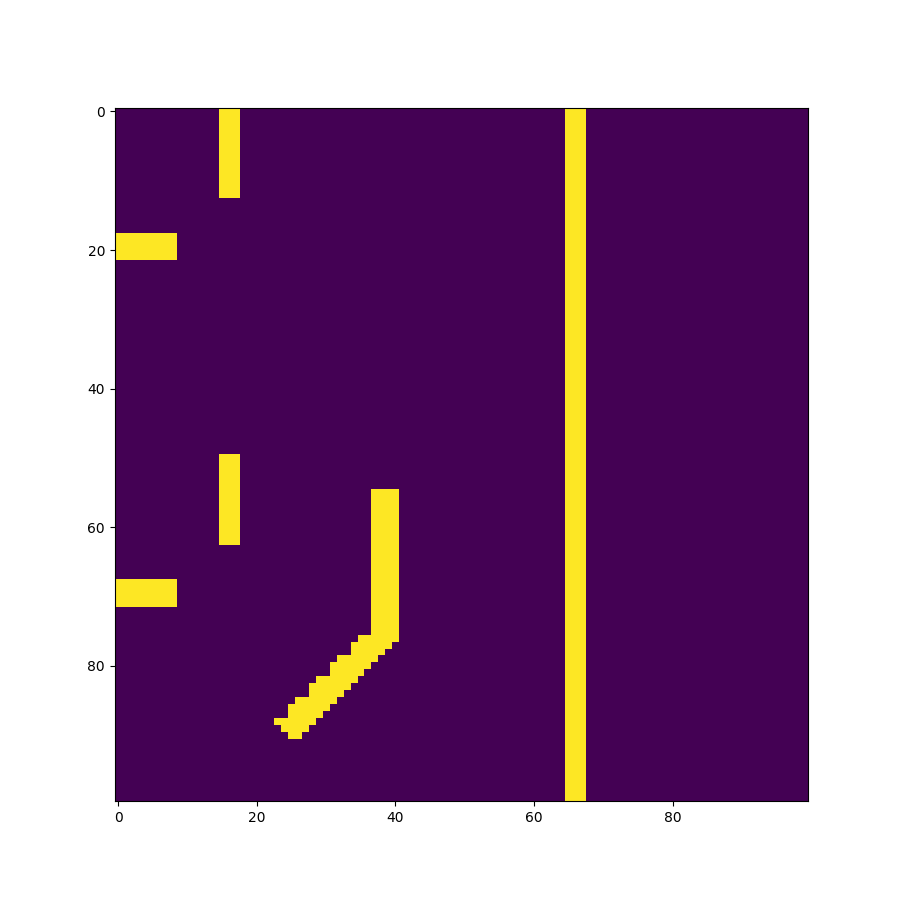
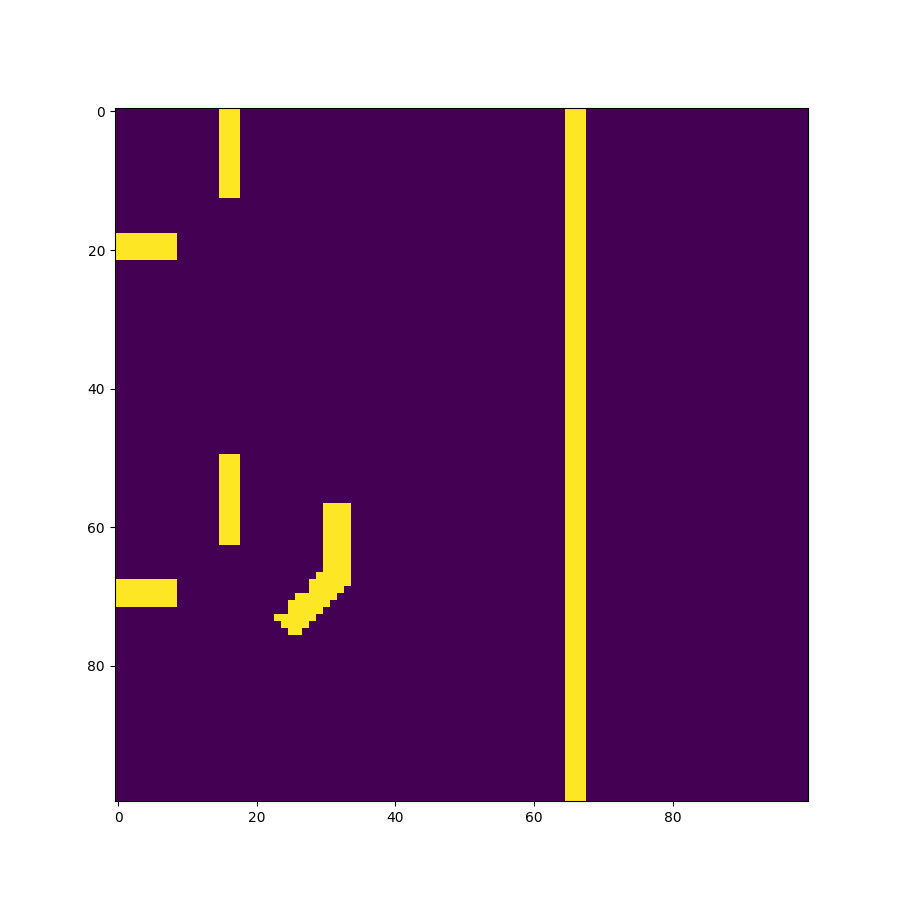
collision checker c++

Changed region(s): [[0.3111, 0.5289, 0.4667, 0.84]]

diff --git a/src/collision_check.hpp b/src/collision_check.hpp
@@ -1,103 +1,107 @@
 #include <iostream>
-#define TRACTOR_WIDTH (0.0)
+#define TRACTOR_WIDTH (0.5)
 #define L1 (1.0)
 #define L2 (1.0)
-#define BODY (0.0)
-#define DIAMETER (0.0)
-// #define map_width (100.0)
-// #define map_height (100.0)
-#define MAP_RESOLUTION (0.1)
-#define RECT_RESOLUTION (0.1)
+#define BODY (0.5)
+#define DIAMETER (0.5)
+#define map_width (20)
+#define map_height (20)
+#define MAP_RESOLUTION (0.2)
+#define RECT_RESOLUTION (0.05)
 #include <eigen3/Eigen/Dense>
 
 class CollisionCheck {
 
     private: 
-        double l_tractor = BODY + L1 + DIAMETER/2;
-        double l_trailer = L2 + DIAMETER/2;
+        // double l_tractor = BODY + L1 + DIAMETER/2;
+        // double l_trailer = L2 + DIAMETER/2;
+        double l_tractor = 2.0;
+        double l_trailer = 2.0;
         Eigen::Matrix3d tractor_transform;
         Eigen::Matrix3d trailer_transform;
-        Eigen::Matrix3d tractor_coords;
-        Eigen::Matrix3d trailer_coords;
+        int steps_w= (int) (TRACTOR_WIDTH/RECT_RESOLUTION)+2;
+        int steps_l_tractor= (int) (l_tractor/RECT_RESOLUTION)+2;
+        int steps_l_trailer= (int) (l_trailer/RECT_RESOLUTION)+2;
+        Eigen::MatrixXd tractor_coords = Eigen::MatrixXd::Zero(3, steps_w*steps_l_tractor);
+        Eigen::MatrixXd trailer_coords = Eigen::MatrixXd::Zero(3, steps_w*steps_l_trailer);
 
         inline void computeTransformMatrices (double theta, double beta, int x, int y) {
             
-            trailer_transform << cos(theta), -sin(theta), x + L2/2*cos(theta),
-            sin(theta), cos(theta), y + L2/2*sin(theta),
+            trailer_transform << cos(theta), -sin(theta), x + l_trailer/2*cos(theta),
+            sin(theta), cos(theta), y + l_trailer/2*sin(theta),
             0, 0, 1;
-            tractor_transform << cos(theta+beta), -sin(theta+beta), x + L2*cos(theta) + l_tractor/2*cos(theta+beta),
-            sin(theta+beta), cos(theta+beta), y + L2*sin(theta) + l_tractor/2*sin(theta+beta),
+            tractor_transform << cos(theta+beta), -sin(theta+beta), x + l_trailer*cos(theta) + l_tractor/2*cos(theta+beta),
+            sin(theta+beta), cos(theta+beta), y + l_trailer*sin(theta) + l_tractor/2*sin(theta+beta),
             0, 0, 1;
         }
 
         inline void computeCoords() {
 
-            int steps_w= (int) (TRACTOR_WIDTH/RECT_RESOLUTION)+1;
-            int steps_l= (int) (l_tractor/RECT_RESOLUTION)+1;
 
-            //define an eigen matrix to store the coordinates of the tractor_rect
-            Eigen::Matrix3Xd tractor_rect_coords(3,(steps_w+1)*(steps_l+1));
-            for (int i = 0; i <= steps_l; i++) {
-                for (int j = 0; j < steps_w; j++) {
-                    tractor_rect_coords(0,i*(steps_w+1)+j) = -TRACTOR_WIDTH/2 + j*float(TRACTOR_WIDTH/steps_w);
-                    tractor_rect_coords(1,i*(steps_w+1)+j) = -l_tractor/2 + i*float(l_tractor/steps_l);
-                    tractor_rect_coords(2,i*(steps_w+1)+j) = 1;
+            Eigen::Matrix3Xd tractor_rect_coords(3,(steps_w)*(steps_l_tractor));
+            for (int i = 0; i < steps_w; i++) {
+                for (int j = 0; j < steps_l_tractor; j++) {
+                    tractor_rect_coords(0,i*(steps_l_tractor)+j) = -l_tractor/2 + j*float(RECT_RESOLUTION);
+                    tractor_rect_coords(1,i*(steps_l_tractor)+j) = -TRACTOR_WIDTH/2 + i*float(RECT_RESOLUTION);
+                    tractor_rect_coords(2,i*(steps_l_tractor)+j) = 1;
                 }
             }
 
-            steps_w= (int) (TRACTOR_WIDTH/RECT_RESOLUTION)+1;
-            steps_l= (int) (l_trailer/RECT_RESOLUTION)+1;
 
-            Eigen::Matrix3Xd trailer_rect_coords(3,(steps_w+1)*(steps_l+1));
-
-            for (int i = 0; i <= steps_l; i++) {
-                for (int j = 0; j < steps_w; j++) {
-                    trailer_rect_coords(0,i*(steps_w+1)+j) = -TRACTOR_WIDTH/2 + j*float(TRACTOR_WIDTH/steps_w);
-                    trailer_rect_coords(1,i*(steps_w+1)+j) = -l_trailer/2 + i*float(l_trailer/steps_l);
-                    trailer_rect_coords(2,i*(steps_w+1)+j) = 1;
+            Eigen::Matrix3Xd trailer_rect_coords(3,(steps_w)*(steps_l_trailer));
+            for (int i = 0; i < steps_w; i++) {
+                for (int j = 0; j < steps_l_trailer; j++) {
+                    trailer_rect_coords(0,i*(steps_l_trailer)+j) = -l_trailer/2 + j*float(RECT_RESOLUTION);
+                    trailer_rect_coords(1,i*(steps_l_trailer)+j) = -TRACTOR_WIDTH/2 + i*float(RECT_RESOLUTION);
+                    trailer_rect_coords(2,i*(steps_l_trailer)+j) = 1;
                 }
             }
 
-            tractor_coords = tractor_transform*tractor_coords;
-            trailer_coords = trailer_transform*trailer_coords;
+            std::cout<<"Tractor rect coords: "<<tractor_rect_coords.rows()<<"x"<<tractor_rect_coords.cols()<<std::endl;
+            std::cout<<"Trailer rect coords: "<<trailer_rect_coords.rows()<<"x"<<trailer_rect_coords.cols()<<std::endl;
+    
+            tractor_coords = tractor_transform*tractor_rect_coords;
+            trailer_coords = trailer_transform*trailer_rect_coords;
+
+            // print dimensions of tractor_coords and trailer_coors
+            std::cout<<"Tractor coords: "<<tractor_coords.rows()<<"x"<<tractor_coords.cols()<<std::endl;
+            std::cout<<"Trailer coords: "<<trailer_coords.rows()<<"x"<<trailer_coords.cols()<<std::endl;
         }
        
         void converWorldXYtoGridXY(float x, float y, int &grid_x, int &grid_y) {
-            // CONVERT world coordinates to grid coordinates 
-            //map resolution is 0.1m
-            //if x= 0.51m, grid_x = 6
-
+            // printf("x: %f, y: %f)", x, y);
             grid_x = (int) x/MAP_RESOLUTION;
             grid_y = (int) y/MAP_RESOLUTION;
 
         }
     public:
-        int collision_check(int x, int y, double beta, double theta, double* world_map, int map_height, int map_width) {
+        int collision_check(float x, float y, float theta, float beta, double* world_map, int x_size, int y_size) {
+            // print  and y_size
+            std::cout<<"x_size: "<<x_size<<" y_size: "<<y_size<<std::endl;
+            std::cout<< "map_width: "<<map_width<<" map_height: "<<map_height<<std::endl;
             
+            assert(x_size == map_width/MAP_RESOLUTION && y_size == map_height/MAP_RESOLUTION);
+
             bool collided = false;
             computeTransformMatrices(theta, beta, x, y);
             computeCoords();
-            // std::cout<<"Tractor coords: "<<tractor_coords<<"\n";
-            // std::cout<<"Trailer coords: "<<trailer_coords<<"\n";
 
-            //first go over all coordinates of the tractor and check if they are in the obstacle space
             int grid_x, grid_y;
             for (int i = 0; i < tractor_coords.cols(); i++) {
+                std::cout<<"Tractor coords: "<<tractor_coords(0,i)<<" "<<tractor_coords(1,i)<<std::endl;
                 converWorldXYtoGridXY(tractor_coords(0,i), tractor_coords(1,i), grid_x, grid_y);
-                //check if the grid_x and grid_y are within the map bounds and if the point is in the obstacle space
-                if (grid_x < 0 || grid_x >= (int)(map_width/MAP_RESOLUTION) || grid_y < 0 || grid_y >= (int)(map_height/MAP_RESOLUTION) || world_map[grid_x + grid_y*(int)(map_width/MAP_RESOLUTION)] > 0) {
+                if (grid_x < 0 || grid_x >= x_size || grid_y < 0 || grid_y >= y_size || world_map[y_size-grid_y-1+grid_x*y_size] > 0) {
                     collided = true;
                     std::cout<<"Collision detected at tractor point "<<tractor_coords(0,i)<<", "<<tractor_coords(1,i)<<"\n";
                     break;
                 }
             }
 
-            //now go over all coordinates of the trailer and check if they are in the obstacle space
             for (int i = 0; i < trailer_coords.cols(); i++) {
                 converWorldXYtoGridXY(trailer_coords(0,i), trailer_coords(1,i), grid_x, grid_y);
-                if (grid_x < 0 || grid_x >= (int)(map_width/MAP_RESOLUTION) || grid_y < 0 || grid_y >= (int)(map_height/MAP_RESOLUTION) || world_map[grid_x + grid_y*(int)(map_width/MAP_RESOLUTION)] >0) {
+                if (grid_x < 0 || grid_x >= x_size || grid_y < 0 || grid_y >= y_size || world_map[y_size-grid_y-1+grid_x*y_size] >0) {
                     collided = true;
-                    std::cout<<"Collision detected at tractor point "<<tractor_coords(0,i)<<", "<<tractor_coords(1,i)<<"\n";
+                    std::cout<<"Collision detected at trailer point "<<trailer_coords(0,i)<<", "<<trailer_coords(1,i)<<"\n";
                     break;
                 }
             }

diff --git a/src/collision_check.py b/src/collision_check.py
@@ -13,8 +13,8 @@ class collision_check():
         self.BODY= 0.5
         # self.l_tractor = self.BODY + self.L1 + self.DIAMETER/2
         # self.l_trailer = self.L2 + self.DIAMETER/2
-        self.l_tractor = 4
-        self.l_trailer = 4
+        self.l_tractor = 2
+        self.l_trailer = 2
         self.TRACTOR_WIDTH = 0.5
         self.RECT_RESOLUTION = 0.05
         self.MAP_RESOLUTION = 0.2
@@ -31,8 +31,8 @@ class collision_check():
         self.trailer_rect_coords = np.zeros((3, 1))
 
     def computeTransformMatrices(self, theta, beta, x, y):
-        theta = theta*math.pi/180
-        beta = beta*math.pi/180
+        # theta = theta*math.pi/180
+        # beta = beta*math.pi/180
 
         self.trailer_transform = np.array([[math.cos(theta), -math.sin(theta), x + self.l_trailer/2*math.cos(theta)],
                                            [math.sin(theta), math.cos(theta), y + self.l_trailer/2*math.sin(theta)],
@@ -44,6 +44,10 @@ class collision_check():
     def computeCoords(self):
         steps_w = int(self.TRACTOR_WIDTH/self.RECT_RESOLUTION) + 2
         steps_l = int(self.l_tractor/self.RECT_RESOLUTION) + 2
+
+        ic(self.l_tractor)
+        ic(steps_w)
+        ic(steps_l)
         tractor_rect_coords = np.zeros((3, (steps_w)*(steps_l)))
         for i in range(steps_w):
             for j in range(steps_l):
@@ -54,7 +58,9 @@ class collision_check():
         steps_w = int(self.TRACTOR_WIDTH/self.RECT_RESOLUTION) + 2
         steps_l = int(self.l_trailer/self.RECT_RESOLUTION) + 2
         trailer_rect_coords = np.zeros((3, (steps_w)*(steps_l)))
-
+        ic(self.l_trailer)
+        ic(steps_w)
+        ic(steps_l)
         for i in range(steps_w):
             for j in range(steps_l):
                 
@@ -62,7 +68,9 @@ class collision_check():
                 trailer_rect_coords[1, i*(steps_l)+j] = -self.TRACTOR_WIDTH/2 + i*self.RECT_RESOLUTION
                 trailer_rect_coords[2, i*(steps_l)+j] = 1
                
-        
+        ic(self.tractor_transform)
+        ic(self.trailer_transform)
+
         self.tractor_coords = np.matmul(self.tractor_transform, tractor_rect_coords)
         self.trailer_coords = np.matmul(self.trailer_transform, trailer_rect_coords)
 
@@ -144,7 +152,7 @@ class collision_check():
     
 if __name__=='__main__':
     cc = collision_check()
-    cc.computeTransformMatrices(45, 45, 5,2)
+    cc.computeTransformMatrices(0.785, 0.785, 5,5)
     cc.computeCoords()
     cc.checkCollision()
     cc.visualise()

diff --git a/src/main.cpp b/src/main.cpp
@@ -3,8 +3,8 @@
 int main() {
     double* world_map;
 	int x_size, y_size;
-    std::tie(world_map, x_size, y_size) = loadMap("/home/naren/catkin_cl_rrt/tractor_trailer_motion_planning_16782/maps/map1.txt");
+    std::tie(world_map, x_size, y_size) = loadMap("map1_cpp.txt");
     CollisionCheck cc;
-    std::cout<<"Collision value: "<<cc.collision_check(5.0, 3.0, 0.52, 0.52, world_map, x_size, y_size);
+    std::cout<<"Collision value: "<<cc.collision_check(5.0, 5.0, 0.785, 0.785, world_map, x_size, y_size);
     return 0;
 }
